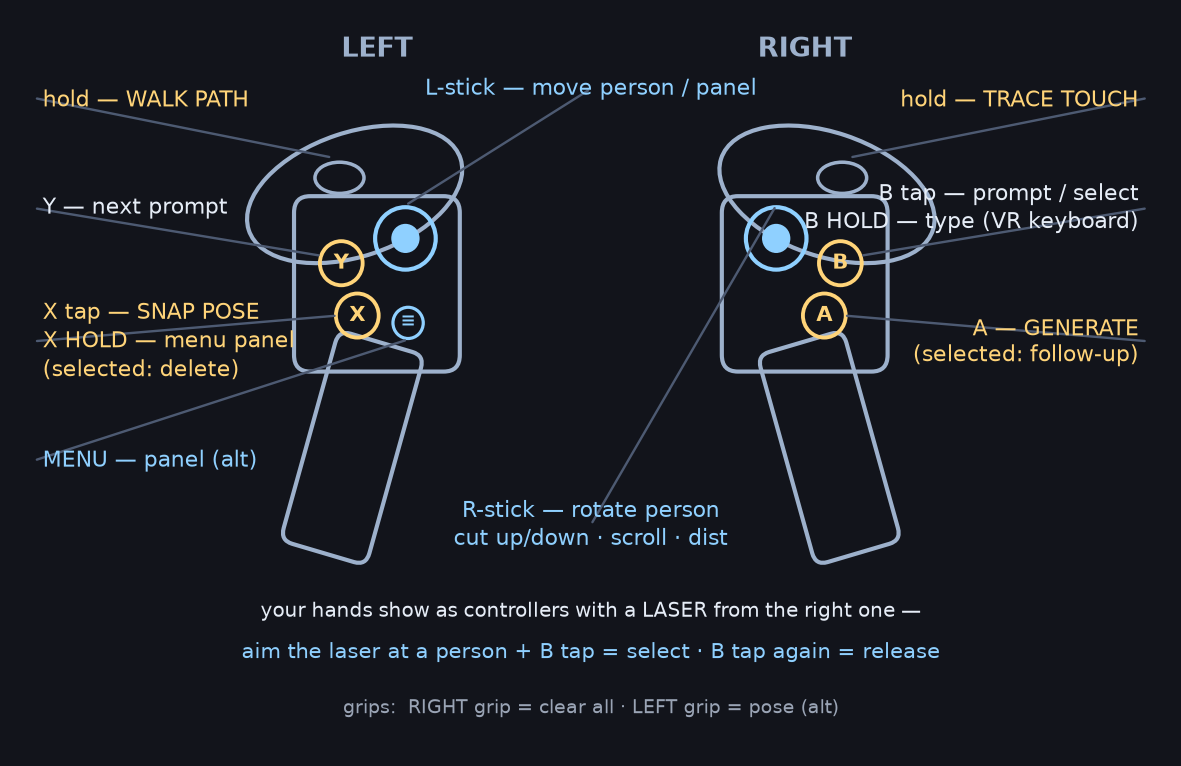
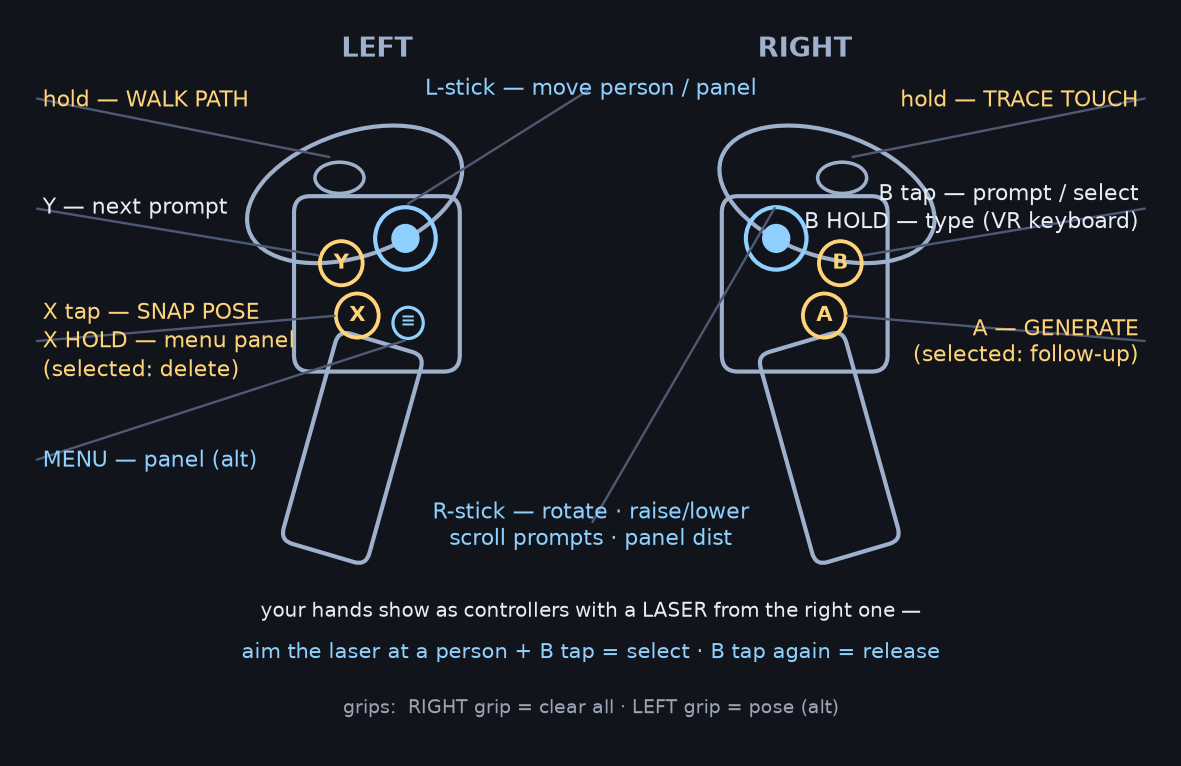
Raise/lower performers (PgUp/PgDn, VR right stick); laser-clickable cut rows

Changed region(s): [[0.3658, 0.6606, 0.6401, 0.7206]]

diff --git a/unity/KimodoUnity/Assets/KimodoVR/KimodoVR.cs b/unity/KimodoUnity/Assets/KimodoVR/KimodoVR.cs
@@ -14,7 +14,7 @@
 //   X tap / hold     snap a pose / open-close the panel   (L-grip = pose alt)
 //   A                generate  (selected person: queue a follow-up action)
 //   B tap / hold     next prompt or select the pointed person / start typing
-//   sticks           selected person: move (L), rotate + cut up/down (R);
+//   sticks           selected person: move (L), rotate + raise/lower (R);
 //                    panel: move (L), scroll prompts (R l/r), distance (R f/b)
 //   R-grip           clear everything
 // Desktop
@@ -22,7 +22,7 @@
 //   X pose · H sim rig (WASD/QE, RMB look, Ctrl/Shift hands) · G generate
 //   J save config + generate · P/T cycle/type prompt · C clear · Tab panels
 //   click a person: 1-9/T behavior · N follow-up · [ ] F cut · arrows , . R
-//   move/rotate/reset · Del remove · Esc close
+//   move/rotate/reset · PgUp/PgDn up/down · Del remove · Esc close
 //   F1 tutorial · F2 input readout · F3 spectator camera (recording)
 
 using System;
@@ -507,9 +507,8 @@ public class KimodoVR : MonoBehaviour
                          * (0.9f * Time.deltaTime));
             if (Mathf.Abs(rAxis.x) > 0.25f)
                 pd.Rotate(rAxis.x * 70f * Time.deltaTime);
-            // right stick up/down = mark cut start/end at the playhead
-            if (Pressed("cutin", rAxis.y > 0.7f)) pd.SetCutIn(pd.ClipTime);
-            if (Pressed("cutout", rAxis.y < -0.7f)) pd.SetCutOut(pd.ClipTime);
+            if (Mathf.Abs(rAxis.y) > 0.25f)   // right stick up/down = raise / lower
+                pd.Nudge(Vector3.up * (rAxis.y * 0.5f * Time.deltaTime));
             // A on a selected person queues the current prompt as a follow-up.
             if (Pressed("a", aBtn))
             {
@@ -607,8 +606,8 @@ public class KimodoVR : MonoBehaviour
                      PersonAlongRay(new Ray(rpos, rrot * Vector3.forward)) is Performer selP)
             {
                 OpenPopup(selP);
-                SetStatus($"SELECTED person {people.IndexOf(selP) + 1} — sticks move/rotate · " +
-                          "R-stick up/down cut · A follow-up · X delete · B release");
+                SetStatus($"SELECTED person {people.IndexOf(selP) + 1} — sticks move/rotate/up-down · " +
+                          "laser rows cut · A follow-up · X delete · B release");
             }
             else CyclePrompt();
         }
@@ -1052,8 +1051,10 @@ public class KimodoVR : MonoBehaviour
         if (p.Dir != null && !queueMode)
         {
             Row(-11); sb.Append(" <color=#8fd0ff>N</color>  queue a follow-up action"); End();
-            Row(-14); sb.Append(" <color=#8fd0ff>R-stick ↑↓</color>  cut   <color=#8fd0ff>F / click here</color>  full clip"); End();
-            Row(-1); sb.Append(" <color=#8fd0ff>arrows</color>  move   <color=#8fd0ff>, .</color>  rotate   <color=#8fd0ff>R</color>  reset"); End();
+            Row(-15); sb.Append(" <color=#8fd0ff>[</color> / click  cut IN at the playhead"); End();
+            Row(-16); sb.Append(" <color=#8fd0ff>]</color> / click  cut OUT at the playhead"); End();
+            Row(-14); sb.Append(" <color=#8fd0ff>F</color> / click  full clip"); End();
+            Row(-1); sb.Append(" <color=#8fd0ff>arrows</color> move  <color=#8fd0ff>PgUp/PgDn</color> up/down  <color=#8fd0ff>, .</color> rotate  <color=#8fd0ff>R</color> reset"); End();
         }
         if (!queueMode) { Row(-12); sb.Append(" <color=#ff8f8f>Del</color>  remove person"); End(); }
         Row(-13); sb.Append(" <color=#8fd0ff>Esc</color>  ").Append(queueMode ? "back" : "close"); End(true);
@@ -1205,7 +1206,7 @@ public class KimodoVR : MonoBehaviour
     // Keep the stacked HUD sections (controls, then map) flowing tidily.
     void LayoutHudStack()
     {
-        float ch = controlsOpen ? 330 : 30;
+        float ch = controlsOpen ? 350 : 30;
         controlsPanel.rectTransform.sizeDelta = new Vector2(460, ch);
         if (mapPanel != null)
         {
@@ -1279,6 +1280,8 @@ public class KimodoVR : MonoBehaviour
             if (kb.rightArrowKey.isPressed) nd += Vector3.right;
             if (kb.leftArrowKey.isPressed) nd += Vector3.left;
             if (nd != Vector3.zero) d.Nudge(CamYaw() * nd * (0.8f * Time.deltaTime));
+            if (kb.pageUpKey.isPressed) d.Nudge(Vector3.up * (0.5f * Time.deltaTime));
+            if (kb.pageDownKey.isPressed) d.Nudge(Vector3.down * (0.5f * Time.deltaTime));
             if (kb.commaKey.isPressed) d.Rotate(-70f * Time.deltaTime);
             if (kb.periodKey.isPressed) d.Rotate(70f * Time.deltaTime);
             if (kb.rKey.wasPressedThisFrame) d.ResetAdjust();
@@ -1569,6 +1572,16 @@ public class KimodoVR : MonoBehaviour
             {
                 target.Dir.ResetCut();
                 SetStatus("Full clip restored.");
+            }
+            else if (code == -15 && target != null && target.Dir != null)
+            {
+                target.Dir.SetCutIn(target.Dir.ClipTime);
+                SetStatus($"Cut IN at {target.Dir.ClipTime:0.0}s.");
+            }
+            else if (code == -16 && target != null && target.Dir != null)
+            {
+                target.Dir.SetCutOut(target.Dir.ClipTime);
+                SetStatus($"Cut OUT at {target.Dir.ClipTime:0.0}s.");
             }
             else if (code == -12) DeletePerson(target);
             else if (code == -13)
@@ -2418,7 +2431,7 @@ public class KimodoVR : MonoBehaviour
         vrGuideKeys.text =
             "<color=#ffd479><b>CONTROLS</b></color>\n" +
             "R-trig tap\nR-trig hold\nL-trig hold\nX tap\n" +
-            "A · B tap\nB hold\npoint + B\nsticks\nX hold";
+            "A · B tap\nB hold\npoint + B\nsticks\nmenu rows\nX hold";
 
         var tutGo = new GameObject("VrTutorial");
         boardTut = tutGo.AddComponent<TextMesh>();
@@ -2437,7 +2450,8 @@ public class KimodoVR : MonoBehaviour
             "generate · next prompt\n" +
             "type (laser + trigger)\n" +
             "select person\n" +
-            "move · rotate · cut ↑/↓\n" +
+            "move · rotate · up/down\n" +
+            "laser: cut in/out · full\n" +
             "this panel";
         vrHud.gameObject.SetActive(false);
 
@@ -2551,7 +2565,7 @@ public class KimodoVR : MonoBehaviour
         controlsKeys.text =
             "\nL-click\nR-click\nX\nH\n" +
             "\nG / J\nP / T\nC\n" +
-            "\n1-9 / T\nN\n[ ] F\narrows , .\nDel";
+            "\n1-9 / T\nN\n[ ] F\narrows , .\nPgUp PgDn\nDel";
 
         var cbodyGo = new GameObject("Body");
         controlsBody = cbodyGo.AddComponent<Text>();
@@ -2581,6 +2595,7 @@ public class KimodoVR : MonoBehaviour
             "queue follow-up action\n" +
             "cut start/end · full clip\n" +
             "move · rotate  (R resets)\n" +
+            "raise / lower\n" +
             "remove person";
         keysGo.SetActive(false);
         cbodyGo.SetActive(false);

diff --git a/docs/report/gen_controller_guide.py b/docs/report/gen_controller_guide.py
@@ -77,7 +77,7 @@ ax.text(axx, ay, "A", color=WARM, fontsize=13, ha="center", va="center", fontwei
 label(9.4, 6.5, 12.75, 7.15, "hold — TRACE TOUCH", WARM, "right")
 label(axx + 0.22, ay, 12.75, 4.5, "A — GENERATE\n(selected: follow-up)", WARM, "right")
 label(bx + 0.22, by + 0.08, 12.75, 5.95, "B tap — prompt / select\nB HOLD — type (VR keyboard)", TXT, "right")
-label(rsx, rsy + 0.36, 6.5, 2.5, "R-stick — rotate person\ncut up/down · scroll · dist", ACC, "center")
+label(rsx, rsy + 0.36, 6.5, 2.5, "R-stick — rotate · raise/lower\nscroll prompts · panel dist", ACC, "center")
 
 ax.text(6.5, 1.5, "your hands show as controllers with a LASER from the right one —",
         color=TXT, fontsize=12.5, ha="center")

diff --git a/README.md b/README.md
@@ -103,7 +103,8 @@ went stale (typical after the laptop slept) — just restart the process.
 | **X** tap / hold | snap a pose (stick-figure ghost) / open the panel (prompts + controls) |
 | **A** | generate — with a person selected: queue a follow-up action |
 | **B** tap / hold | next prompt, or select the person the laser points at / start typing (virtual keyboard) |
-| sticks (selected) | move · rotate · cut clip (R up/down) |
+| sticks (selected) | move (L) · rotate (R left/right) · raise/lower (R up/down) |
+| laser on the menu | cut IN / cut OUT at the playhead · full clip · prompts · type · delete |
 | R-grip | clear everything |
 
 | Desktop | |
@@ -112,7 +113,7 @@ went stale (typical after the laptop slept) — just restart the process.
 | **X** / **H** | snap pose / simulated rig (WASD, QE, RMB look, Ctrl/Shift hands) |
 | **G** / **J** | generate / save config to `KimodoConfigs/` and generate from it |
 | **P** / **T** | cycle / type a prompt (typing only sets it — G/A generates) |
-| click a person | 1–9 or T new behavior · N follow-up · `[` `]` F cut · arrows , . R move · Del |
+| click a person | 1–9 or T new behavior · N follow-up · `[` `]` F cut · arrows , . R move/rotate · PgUp/PgDn up/down · Del |
 | Tab / F1 / F2 / F3 | panels · tutorial · input readout · spectator camera for recording |
 
 Keep prompts full sentences ("A person crouches and reaches forward.") — terse
